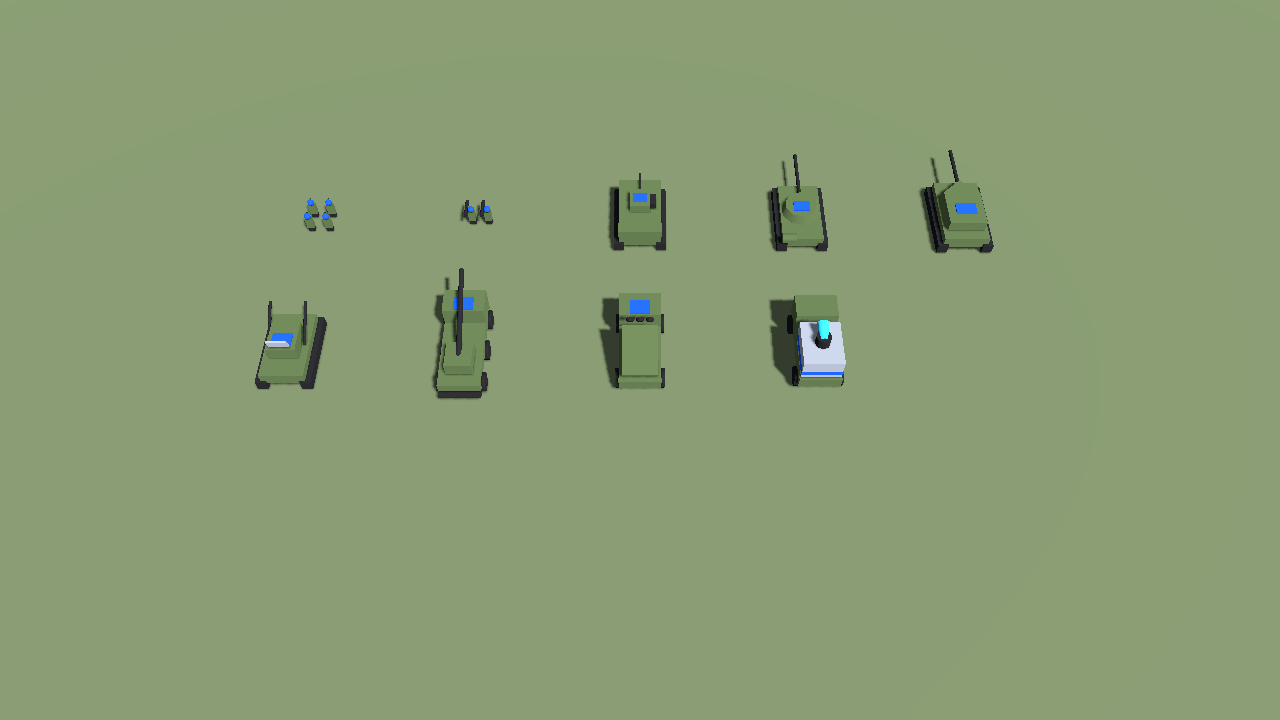
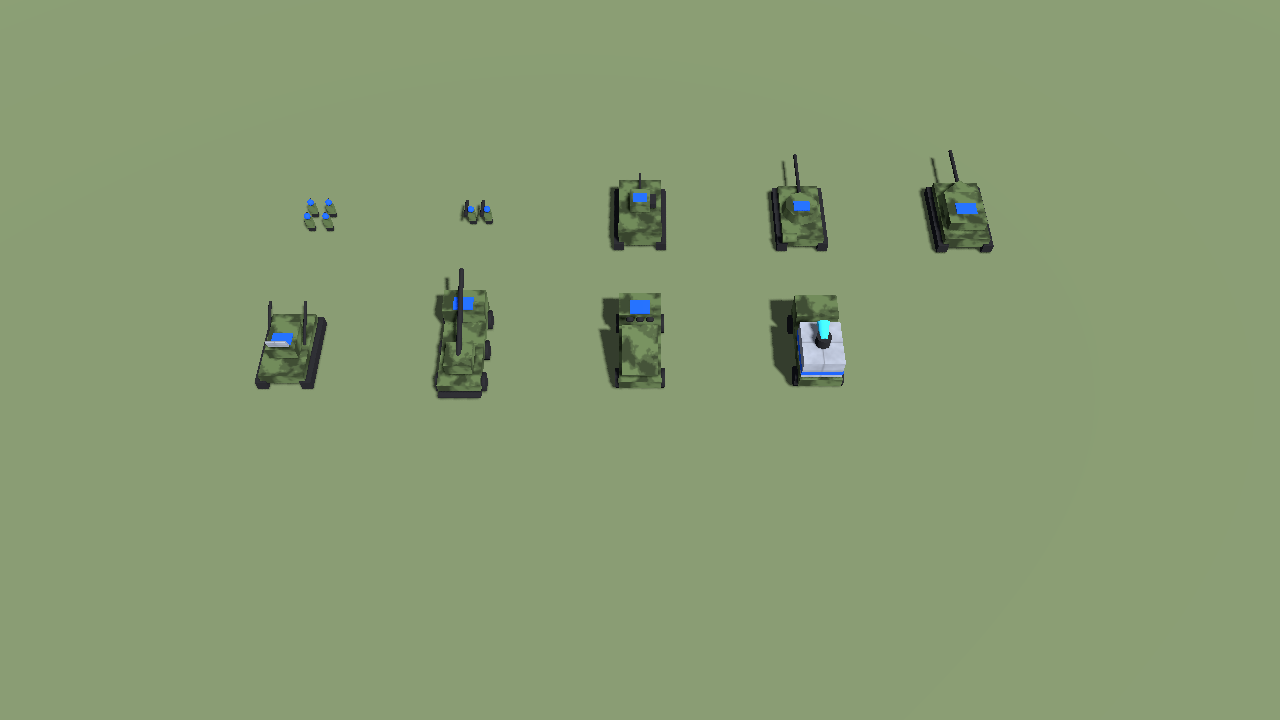
Add procedural textures for terrain, water, rock, camouflage and panels
Textures are generated in code at startup as tileable greyscale images
and multiplied by the material colour, so one texture serves every map
and country. They are applied with triplanar mapping, which needs no UV
unwrapping of the code-built models. No image files are added.

Claude-Session: https://claude.ai/code/session_01PNftH19odcAmDo7ZEKyLSu

diff --git a/README.md b/README.md
@@ -84,6 +84,7 @@ Dışa aktarma ayarı (`export_presets.cfg`) repoda hazırdır.
 | `scripts/game.gd` | Maç döngüsü, ekonomi, inşa, araştırma, füzeler, seçim, emirler, efektler |
 | `scripts/unit.gd`, `air_unit.gd`, `building.gd`, `entity.gd`, `shot.gd` | Kara birimi, hava aracı, bina, ortak taban, mermi |
 | `scripts/models.gd` | Kodla üretilen low-poly modeller; uçak ölçüleri `JETS` tablosunda |
+| `scripts/tex.gd` | Kodla üretilen texture'lar (arazi, su, kaya, kamuflaj, panel) |
 | `scripts/terrain.gd` | Arazi ve yol bulma |
 | `scripts/fog.gd` | Savaş sisi |
 | `scripts/controls.gd`, `camera_rig.gd` | Dokunmatik kontroller ve kamera |
